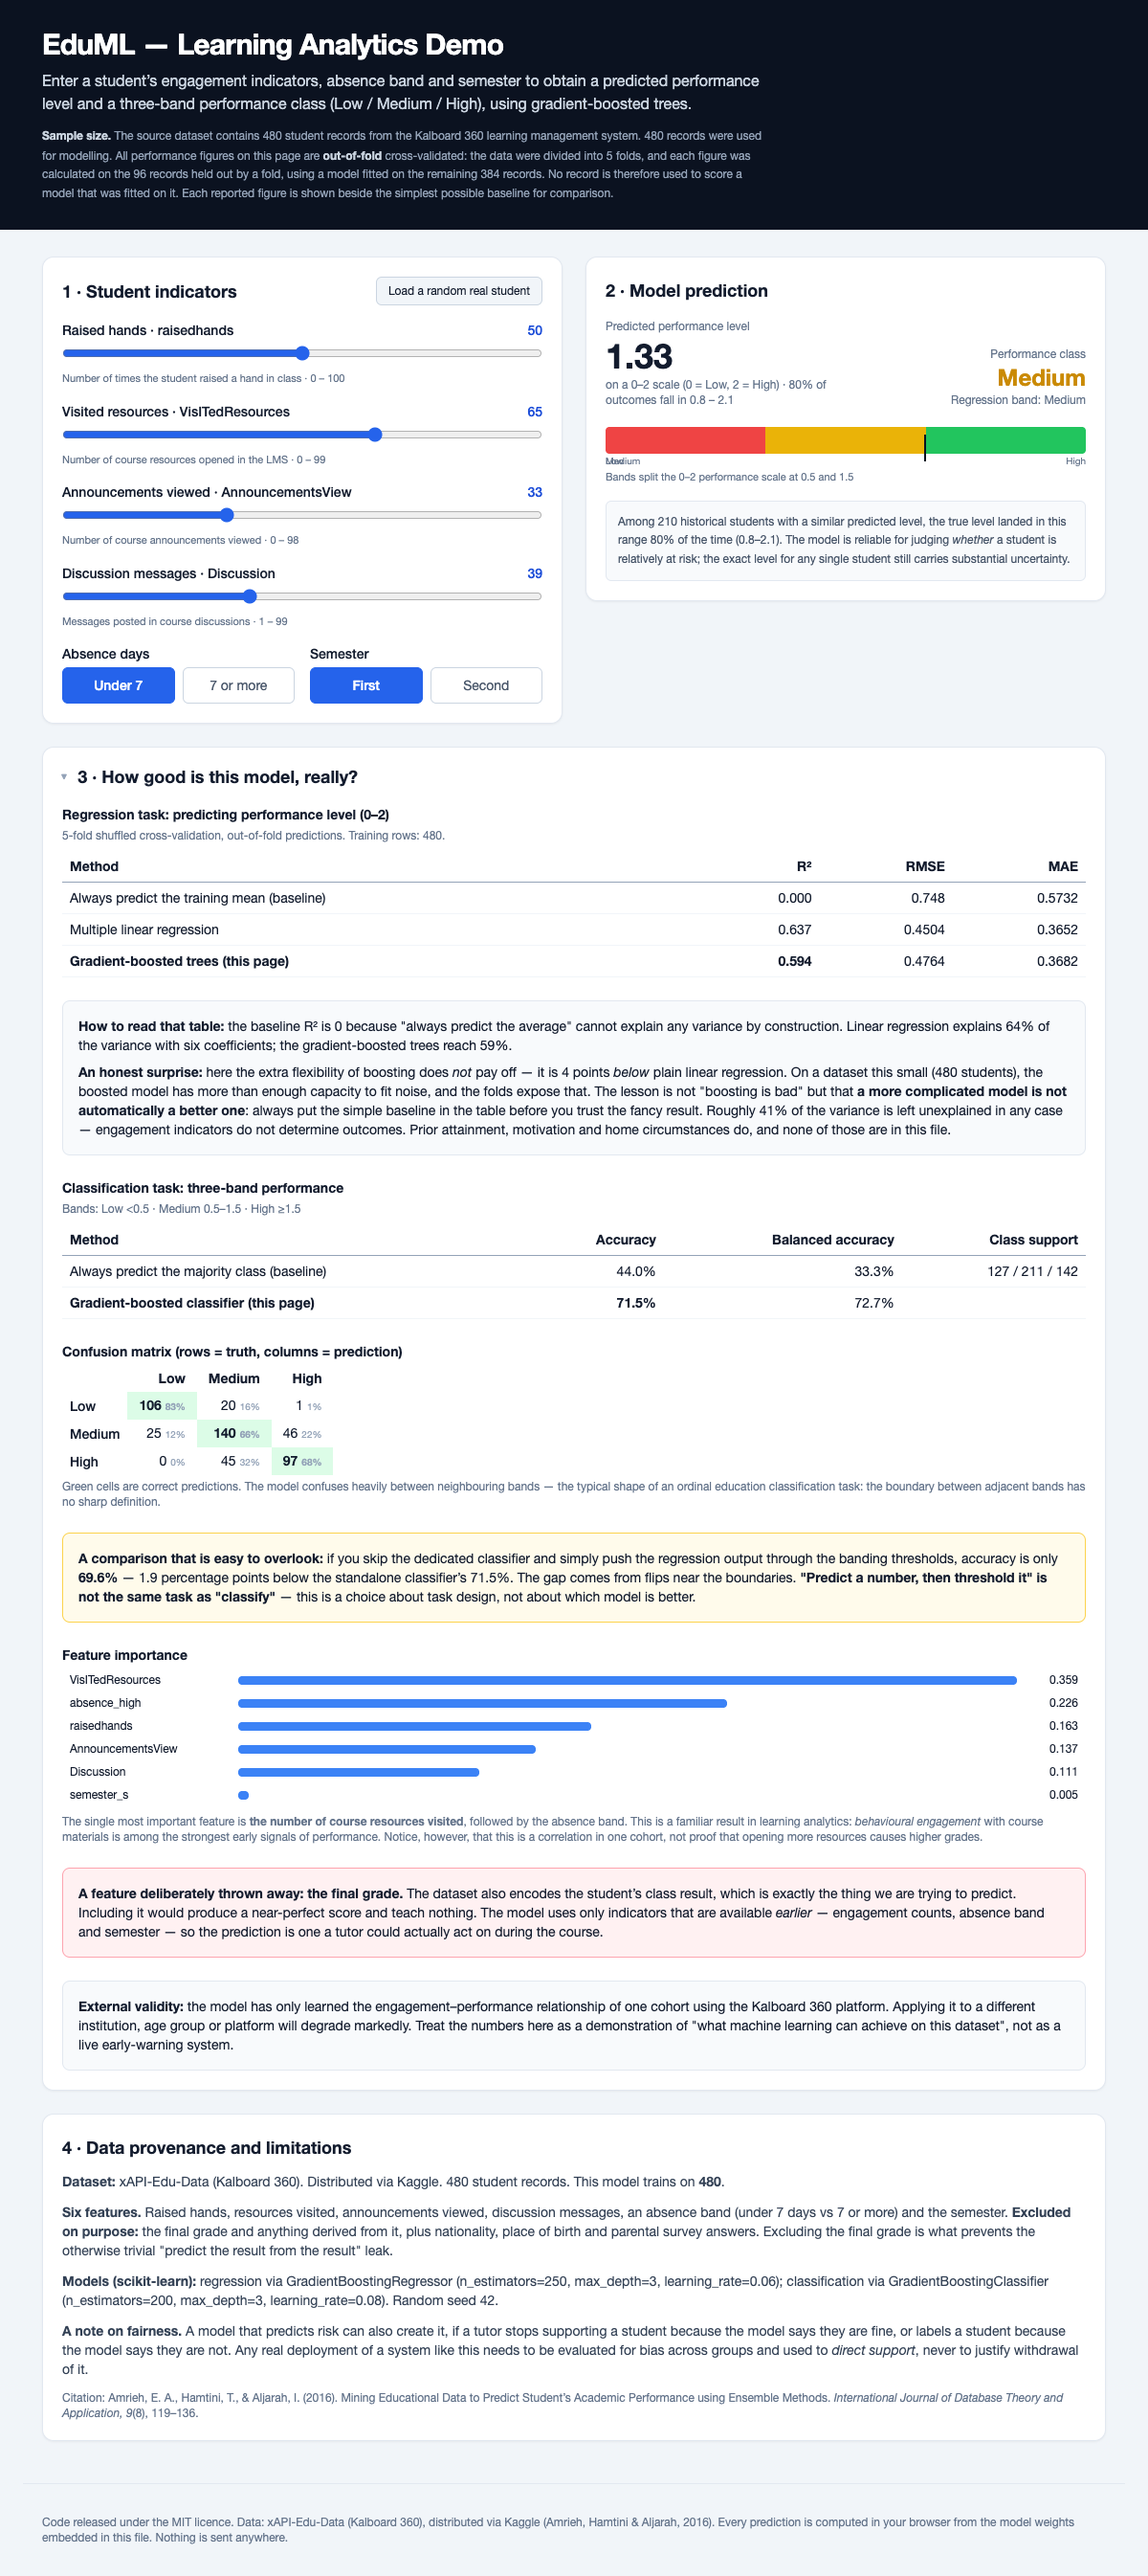
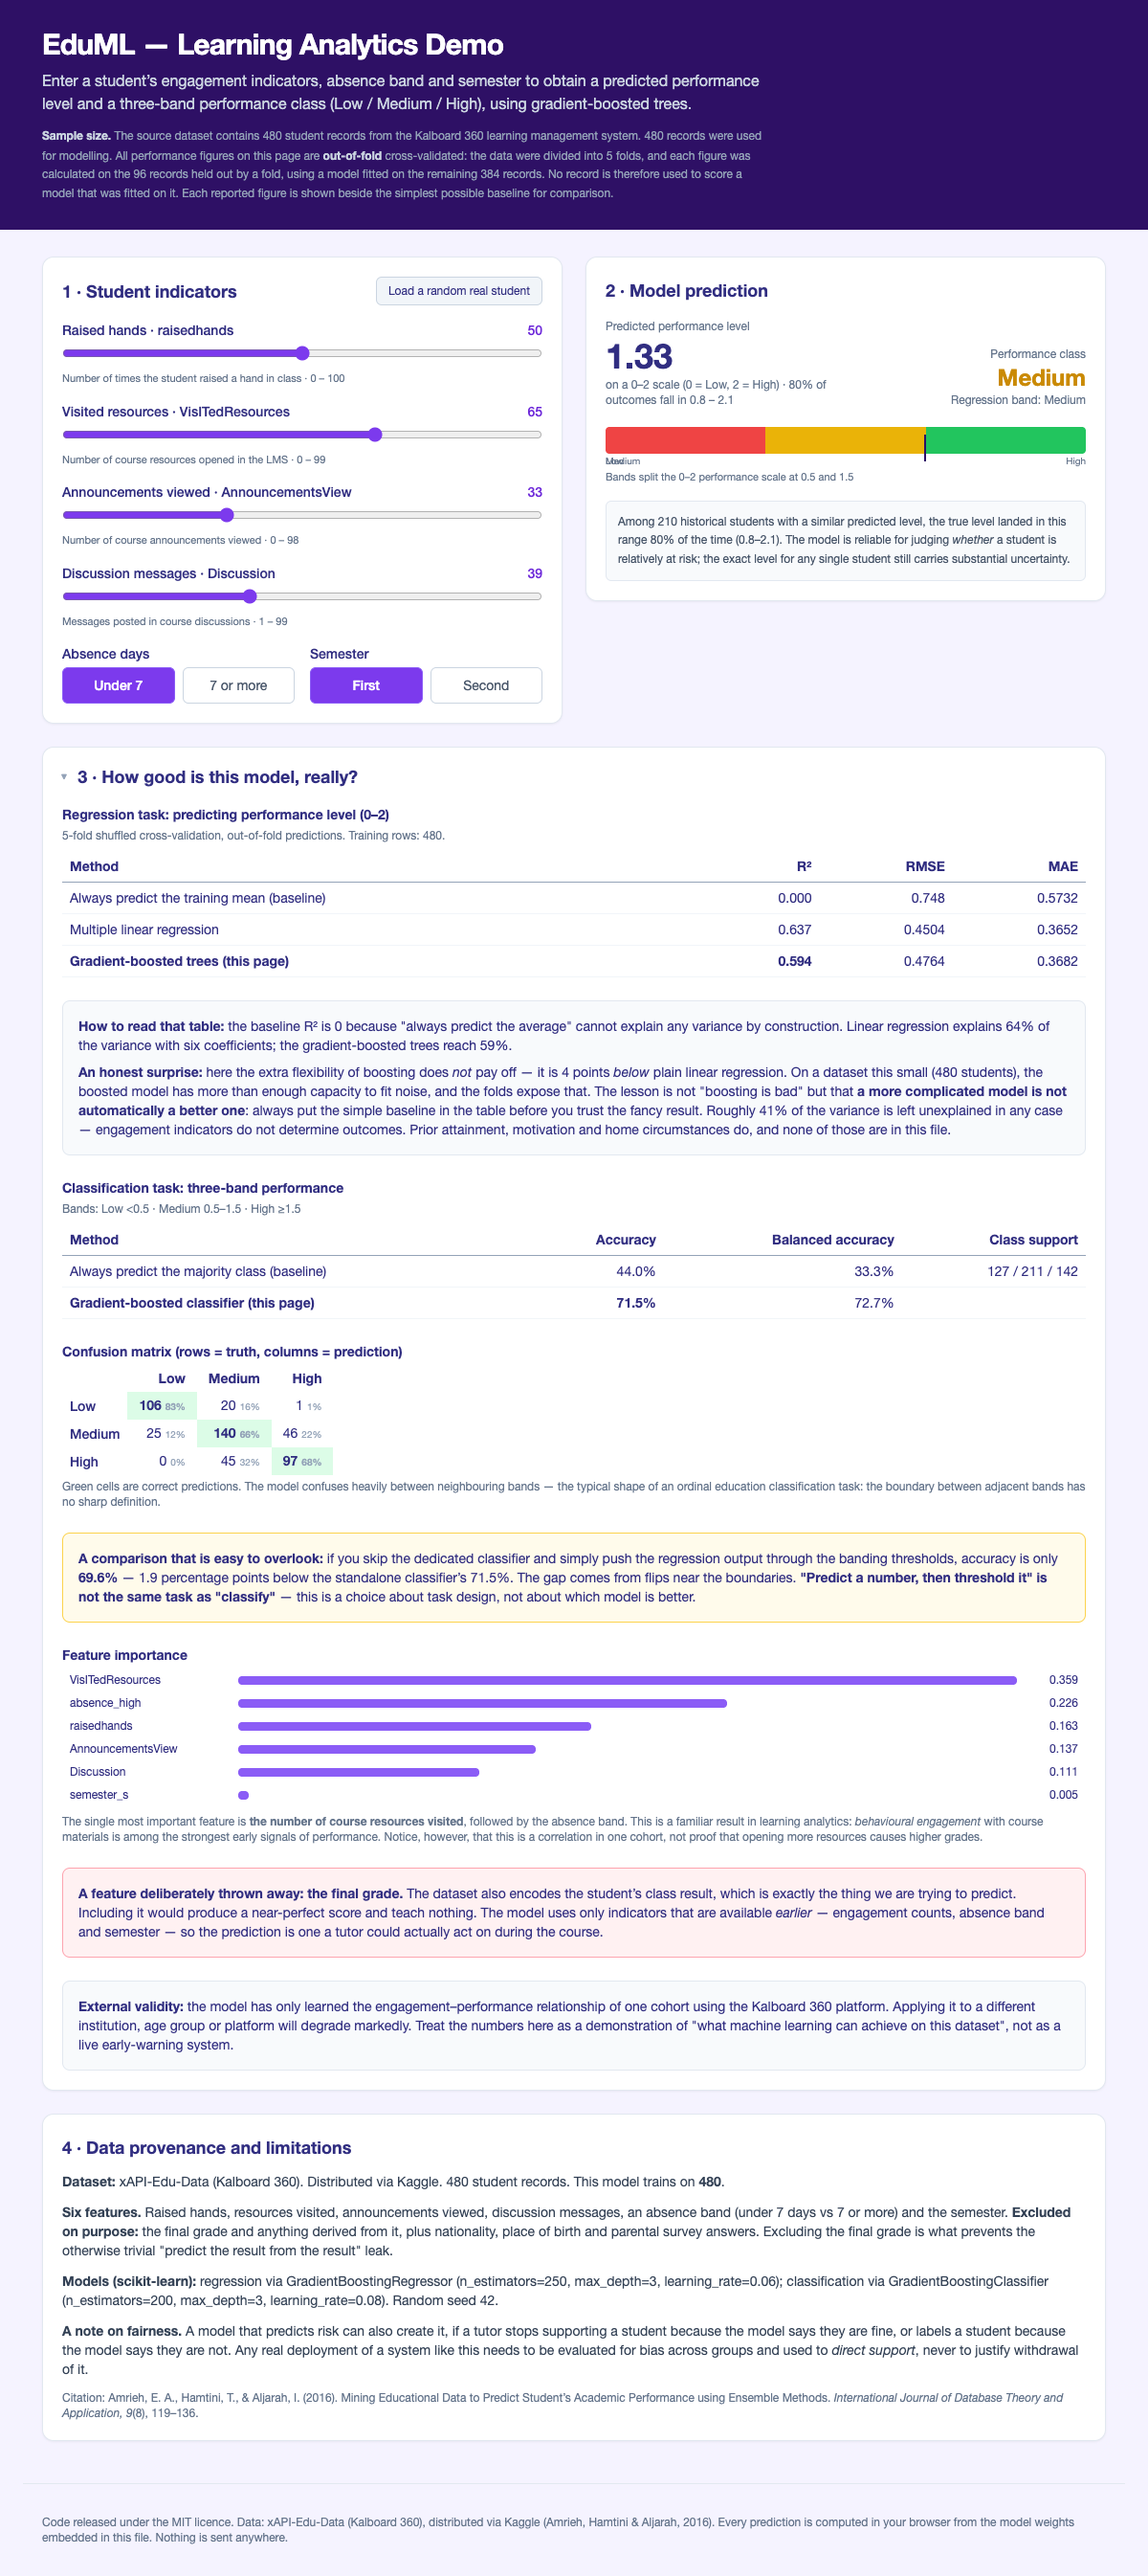
Recolour to violet theme, distinct from EnvML

diff --git a/index.html b/index.html
@@ -85,6 +85,24 @@ input[type=range] { accent-color: #2563eb; }
    -------------------------------------------------------------------------- */
 *, ::before, ::after{--tw-border-spacing-x:0;--tw-border-spacing-y:0;--tw-translate-x:0;--tw-translate-y:0;--tw-rotate:0;--tw-skew-x:0;--tw-skew-y:0;--tw-scale-x:1;--tw-scale-y:1;--tw-pan-x: ;--tw-pan-y: ;--tw-pinch-zoom: ;--tw-scroll-snap-strictness:proximity;--tw-gradient-from-position: ;--tw-gradient-via-position: ;--tw-gradient-to-position: ;--tw-ordinal: ;--tw-slashed-zero: ;--tw-numeric-figure: ;--tw-numeric-spacing: ;--tw-numeric-fraction: ;--tw-ring-inset: ;--tw-ring-offset-width:0px;--tw-ring-offset-color:#fff;--tw-ring-color:rgb(59 130 246 / 0.5);--tw-ring-offset-shadow:0 0 #0000;--tw-ring-shadow:0 0 #0000;--tw-shadow:0 0 #0000;--tw-shadow-colored:0 0 #0000;--tw-blur: ;--tw-brightness: ;--tw-contrast: ;--tw-grayscale: ;--tw-hue-rotate: ;--tw-invert: ;--tw-saturate: ;--tw-sepia: ;--tw-drop-shadow: ;--tw-backdrop-blur: ;--tw-backdrop-brightness: ;--tw-backdrop-contrast: ;--tw-backdrop-grayscale: ;--tw-backdrop-hue-rotate: ;--tw-backdrop-invert: ;--tw-backdrop-opacity: ;--tw-backdrop-saturate: ;--tw-backdrop-sepia: ;--tw-contain-size: ;--tw-contain-layout: ;--tw-contain-paint: ;--tw-contain-style: }::backdrop{--tw-border-spacing-x:0;--tw-border-spacing-y:0;--tw-translate-x:0;--tw-translate-y:0;--tw-rotate:0;--tw-skew-x:0;--tw-skew-y:0;--tw-scale-x:1;--tw-scale-y:1;--tw-pan-x: ;--tw-pan-y: ;--tw-pinch-zoom: ;--tw-scroll-snap-strictness:proximity;--tw-gradient-from-position: ;--tw-gradient-via-position: ;--tw-gradient-to-position: ;--tw-ordinal: ;--tw-slashed-zero: ;--tw-numeric-figure: ;--tw-numeric-spacing: ;--tw-numeric-fraction: ;--tw-ring-inset: ;--tw-ring-offset-width:0px;--tw-ring-offset-color:#fff;--tw-ring-color:rgb(59 130 246 / 0.5);--tw-ring-offset-shadow:0 0 #0000;--tw-ring-shadow:0 0 #0000;--tw-shadow:0 0 #0000;--tw-shadow-colored:0 0 #0000;--tw-blur: ;--tw-brightness: ;--tw-contrast: ;--tw-grayscale: ;--tw-hue-rotate: ;--tw-invert: ;--tw-saturate: ;--tw-sepia: ;--tw-drop-shadow: ;--tw-backdrop-blur: ;--tw-backdrop-brightness: ;--tw-backdrop-contrast: ;--tw-backdrop-grayscale: ;--tw-backdrop-hue-rotate: ;--tw-backdrop-invert: ;--tw-backdrop-opacity: ;--tw-backdrop-saturate: ;--tw-backdrop-sepia: ;--tw-contain-size: ;--tw-contain-layout: ;--tw-contain-paint: ;--tw-contain-style: }/* ! tailwindcss v3.4.17 | MIT License | https://tailwindcss.com */*,::after,::before{box-sizing:border-box;border-width:0;border-style:solid;border-color:#e5e7eb}::after,::before{--tw-content:''}:host,html{line-height:1.5;-webkit-text-size-adjust:100%;-moz-tab-size:4;tab-size:4;font-family:ui-sans-serif, system-ui, sans-serif, "Apple Color Emoji", "Segoe UI Emoji", "Segoe UI Symbol", "Noto Color Emoji";font-feature-settings:normal;font-variation-settings:normal;-webkit-tap-highlight-color:transparent}body{margin:0;line-height:inherit}hr{height:0;color:inherit;border-top-width:1px}abbr:where([title]){-webkit-text-decoration:underline dotted;text-decoration:underline dotted}h1,h2,h3,h4,h5,h6{font-size:inherit;font-weight:inherit}a{color:inherit;text-decoration:inherit}b,strong{font-weight:bolder}code,kbd,pre,samp{font-family:ui-monospace, SFMono-Regular, Menlo, Monaco, Consolas, "Liberation Mono", "Courier New", monospace;font-feature-settings:normal;font-variation-settings:normal;font-size:1em}small{font-size:80%}sub,sup{font-size:75%;line-height:0;position:relative;vertical-align:baseline}sub{bottom:-.25em}sup{top:-.5em}table{text-indent:0;border-color:inherit;border-collapse:collapse}button,input,optgroup,select,textarea{font-family:inherit;font-feature-settings:inherit;font-variation-settings:inherit;font-size:100%;font-weight:inherit;line-height:inherit;letter-spacing:inherit;color:inherit;margin:0;padding:0}button,select{text-transform:none}button,input:where([type=button]),input:where([type=reset]),input:where([type=submit]){-webkit-appearance:button;background-color:transparent;background-image:none}:-moz-focusring{outline:auto}:-moz-ui-invalid{box-shadow:none}progress{vertical-align:baseline}::-webkit-inner-spin-button,::-webkit-outer-spin-button{height:auto}[type=search]{-webkit-appearance:textfield;outline-offset:-2px}::-webkit-search-decoration{-webkit-appearance:none}::-webkit-file-upload-button{-webkit-appearance:button;font:inherit}summary{display:list-item}blockquote,dd,dl,figure,h1,h2,h3,h4,h5,h6,hr,p,pre{margin:0}fieldset{margin:0;padding:0}legend{padding:0}menu,ol,ul{list-style:none;margin:0;padding:0}dialog{padding:0}textarea{resize:vertical}input::placeholder,textarea::placeholder{opacity:1;color:#9ca3af}[role=button],button{cursor:pointer}:disabled{cursor:default}audio,canvas,embed,iframe,img,object,svg,video{display:block;vertical-align:middle}img,video{max-width:100%;height:auto}[hidden]:where(:not([hidden=until-found])){display:none}.absolute{position:absolute}.relative{position:relative}.-top-9{top:-2.25rem}.left-0{left:0px}.left-\[15\%\]{left:15%}.left-\[23\%\]{left:23%}.left-\[30\%\]{left:30%}.left-\[50\%\]{left:50%}.left-\[7\%\]{left:7%}.right-0{right:0px}.mx-auto{margin-left:auto;margin-right:auto}.mb-1{margin-bottom:0.25rem}.mb-3{margin-bottom:0.75rem}.mb-4{margin-bottom:1rem}.mt-1{margin-top:0.25rem}.mt-2{margin-top:0.5rem}.mt-3{margin-top:0.75rem}.mt-4{margin-top:1rem}.mt-5{margin-top:1.25rem}.mb-2{margin-bottom:0.5rem}.ml-1{margin-left:0.25rem}.block{display:block}.flex{display:flex}.grid{display:grid}.hidden{display:none}.h-0{height:0px}.h-4{height:1rem}.h-7{height:1.75rem}.w-0\.5{width:0.125rem}.w-full{width:100%}.w-16{width:4rem}.w-44{width:11rem}.max-w-3xl{max-width:48rem}.max-w-6xl{max-width:72rem}.flex-1{flex:1 1 0%}.border-collapse{border-collapse:collapse}.grid-cols-1{grid-template-columns:repeat(1, minmax(0, 1fr))}.grid-cols-2{grid-template-columns:repeat(2, minmax(0, 1fr))}.grid-cols-4{grid-template-columns:repeat(4, minmax(0, 1fr))}.items-end{align-items:flex-end}.items-center{align-items:center}.justify-between{justify-content:space-between}.gap-2{gap:0.5rem}.gap-3{gap:0.75rem}.gap-4{gap:1rem}.gap-6{gap:1.5rem}.space-y-3 > :not([hidden]) ~ :not([hidden]){--tw-space-y-reverse:0;margin-top:calc(0.75rem * calc(1 - var(--tw-space-y-reverse)));margin-bottom:calc(0.75rem * var(--tw-space-y-reverse))}.space-y-4 > :not([hidden]) ~ :not([hidden]){--tw-space-y-reverse:0;margin-top:calc(1rem * calc(1 - var(--tw-space-y-reverse)));margin-bottom:calc(1rem * var(--tw-space-y-reverse))}.space-y-6 > :not([hidden]) ~ :not([hidden]){--tw-space-y-reverse:0;margin-top:calc(1.5rem * calc(1 - var(--tw-space-y-reverse)));margin-bottom:calc(1.5rem * var(--tw-space-y-reverse))}.overflow-hidden{overflow:hidden}.whitespace-nowrap{white-space:nowrap}.rounded{border-radius:0.25rem}.rounded-md{border-radius:0.375rem}.rounded-xl{border-radius:0.75rem}.rounded-lg{border-radius:0.5rem}.rounded-t-xl{border-top-left-radius:0.75rem;border-top-right-radius:0.75rem}.border{border-width:1px}.border-t{border-top-width:1px}.border-b{border-bottom-width:1px}.border-amber-300{--tw-border-opacity:1;border-color:rgb(252 211 77 / var(--tw-border-opacity, 1))}.border-slate-200{--tw-border-opacity:1;border-color:rgb(226 232 240 / var(--tw-border-opacity, 1))}.border-slate-300{--tw-border-opacity:1;border-color:rgb(203 213 225 / var(--tw-border-opacity, 1))}.border-blue-600{--tw-border-opacity:1;border-color:rgb(37 99 235 / var(--tw-border-opacity, 1))}.border-rose-300{--tw-border-opacity:1;border-color:rgb(253 164 175 / var(--tw-border-opacity, 1))}.border-slate-100{--tw-border-opacity:1;border-color:rgb(241 245 249 / var(--tw-border-opacity, 1))}.border-slate-400{--tw-border-opacity:1;border-color:rgb(148 163 184 / var(--tw-border-opacity, 1))}.bg-amber-50{--tw-bg-opacity:1;background-color:rgb(255 251 235 / var(--tw-bg-opacity, 1))}.bg-ink-900{--tw-bg-opacity:1;background-color:rgb(11 18 32 / var(--tw-bg-opacity, 1))}.bg-slate-100{--tw-bg-opacity:1;background-color:rgb(241 245 249 / var(--tw-bg-opacity, 1))}.bg-slate-50{--tw-bg-opacity:1;background-color:rgb(248 250 252 / var(--tw-bg-opacity, 1))}.bg-white{--tw-bg-opacity:1;background-color:rgb(255 255 255 / var(--tw-bg-opacity, 1))}.bg-blue-500{--tw-bg-opacity:1;background-color:rgb(59 130 246 / var(--tw-bg-opacity, 1))}.bg-blue-600{--tw-bg-opacity:1;background-color:rgb(37 99 235 / var(--tw-bg-opacity, 1))}.bg-green-100{--tw-bg-opacity:1;background-color:rgb(220 252 231 / var(--tw-bg-opacity, 1))}.bg-rose-50{--tw-bg-opacity:1;background-color:rgb(255 241 242 / var(--tw-bg-opacity, 1))}.p-3{padding:0.75rem}.p-5{padding:1.25rem}.p-4{padding:1rem}.px-3{padding-left:0.75rem;padding-right:0.75rem}.px-5{padding-left:1.25rem;padding-right:1.25rem}.py-1\.5{padding-top:0.375rem;padding-bottom:0.375rem}.py-2{padding-top:0.5rem;padding-bottom:0.5rem}.py-4{padding-top:1rem;padding-bottom:1rem}.py-7{padding-top:1.75rem;padding-bottom:1.75rem}.py-8{padding-top:2rem;padding-bottom:2rem}.px-2{padding-left:0.5rem;padding-right:0.5rem}.py-1{padding-top:0.25rem;padding-bottom:0.25rem}.pb-5{padding-bottom:1.25rem}.text-left{text-align:left}.text-right{text-align:right}.text-2xl{font-size:1.5rem;line-height:2rem}.text-4xl{font-size:2.25rem;line-height:2.5rem}.text-\[10px\]{font-size:10px}.text-\[11px\]{font-size:11px}.text-lg{font-size:1.125rem;line-height:1.75rem}.text-sm{font-size:0.875rem;line-height:1.25rem}.text-xs{font-size:0.75rem;line-height:1rem}.font-medium{font-weight:500}.font-semibold{font-weight:600}.leading-relaxed{line-height:1.625}.leading-tight{line-height:1.25}.tracking-tight{letter-spacing:-0.025em}.text-amber-800{--tw-text-opacity:1;color:rgb(146 64 14 / var(--tw-text-opacity, 1))}.text-amber-900{--tw-text-opacity:1;color:rgb(120 53 15 / var(--tw-text-opacity, 1))}.text-blue-700{--tw-text-opacity:1;color:rgb(29 78 216 / var(--tw-text-opacity, 1))}.text-ink-800{--tw-text-opacity:1;color:rgb(19 28 46 / var(--tw-text-opacity, 1))}.text-slate-300{--tw-text-opacity:1;color:rgb(203 213 225 / var(--tw-text-opacity, 1))}.text-slate-400{--tw-text-opacity:1;color:rgb(148 163 184 / var(--tw-text-opacity, 1))}.text-slate-500{--tw-text-opacity:1;color:rgb(100 116 139 / var(--tw-text-opacity, 1))}.text-slate-600{--tw-text-opacity:1;color:rgb(71 85 105 / var(--tw-text-opacity, 1))}.text-slate-700{--tw-text-opacity:1;color:rgb(51 65 85 / var(--tw-text-opacity, 1))}.text-white{--tw-text-opacity:1;color:rgb(255 255 255 / var(--tw-text-opacity, 1))}.shadow-sm{--tw-shadow:0 1px 2px 0 rgb(0 0 0 / 0.05);--tw-shadow-colored:0 1px 2px 0 var(--tw-shadow-color);box-shadow:var(--tw-ring-offset-shadow, 0 0 #0000), var(--tw-ring-shadow, 0 0 #0000), var(--tw-shadow)}.transition-all{transition-property:all;transition-timing-function:cubic-bezier(0.4, 0, 0.2, 1);transition-duration:150ms}.hover\:bg-slate-200:hover{--tw-bg-opacity:1;background-color:rgb(226 232 240 / var(--tw-bg-opacity, 1))}.hover\:bg-slate-50:hover{--tw-bg-opacity:1;background-color:rgb(248 250 252 / var(--tw-bg-opacity, 1))}@media (min-width: 640px){.sm\:text-3xl{font-size:1.875rem;line-height:2.25rem}.sm\:text-base{font-size:1rem;line-height:1.5rem}}@media (min-width: 1024px){.lg\:grid-cols-2{grid-template-columns:repeat(2, minmax(0, 1fr))}}
 </style>
+<!-- ------------------------------------------------------------------
+     EduML theme overrides (hand-written), applied after the vendored
+     Tailwind snapshot. Violet identity, deliberately distinct from the
+     blue used by the sibling EnvML demo.
+     ------------------------------------------------------------------ -->
+<style>
+  body { background-color:#f5f3ff !important; }          /* violet-50  */
+  .bg-ink-900 { background-color:#2e1065 !important; }   /* deep violet header */
+  .text-ink-800 { color:#312e81 !important; }            /* indigo-900 body ink */
+  .text-blue-700 { color:#6d28d9 !important; }           /* violet-700 */
+  .bg-blue-500 { background-color:#8b5cf6 !important; }  /* violet-500 */
+  .bg-blue-600 { background-color:#7c3aed !important; }  /* violet-600 */
+  .border-blue-600 { border-color:#8b5cf6 !important; }
+  .text-blue-600 { color:#7c3aed !important; }
+  input[type="range"] { accent-color:#7c3aed; }
+  * { --tw-ring-color:rgb(124 58 237 / 0.45); }
+  ::selection { background:#ddd6fe; color:#2e1065; }
+</style>
 </head>
 <body class="bg-slate-100 text-ink-800">
 

diff --git a/scripts/build_page.py b/scripts/build_page.py
@@ -34,6 +34,24 @@ HTML = '''<!DOCTYPE html>
   It is one file and it works by double-clicking it, offline, from disk.
 -->
 __CSS__
+<!-- ------------------------------------------------------------------
+     EduML theme overrides (hand-written), applied after the vendored
+     Tailwind snapshot. Violet identity, deliberately distinct from the
+     blue used by the sibling EnvML demo.
+     ------------------------------------------------------------------ -->
+<style>
+  body { background-color:#f5f3ff !important; }          /* violet-50  */
+  .bg-ink-900 { background-color:#2e1065 !important; }   /* deep violet header */
+  .text-ink-800 { color:#312e81 !important; }            /* indigo-900 body ink */
+  .text-blue-700 { color:#6d28d9 !important; }           /* violet-700 */
+  .bg-blue-500 { background-color:#8b5cf6 !important; }  /* violet-500 */
+  .bg-blue-600 { background-color:#7c3aed !important; }  /* violet-600 */
+  .border-blue-600 { border-color:#8b5cf6 !important; }
+  .text-blue-600 { color:#7c3aed !important; }
+  input[type="range"] { accent-color:#7c3aed; }
+  * { --tw-ring-color:rgb(124 58 237 / 0.45); }
+  ::selection { background:#ddd6fe; color:#2e1065; }
+</style>
 </head>
 <body class="bg-slate-100 text-ink-800">
 
